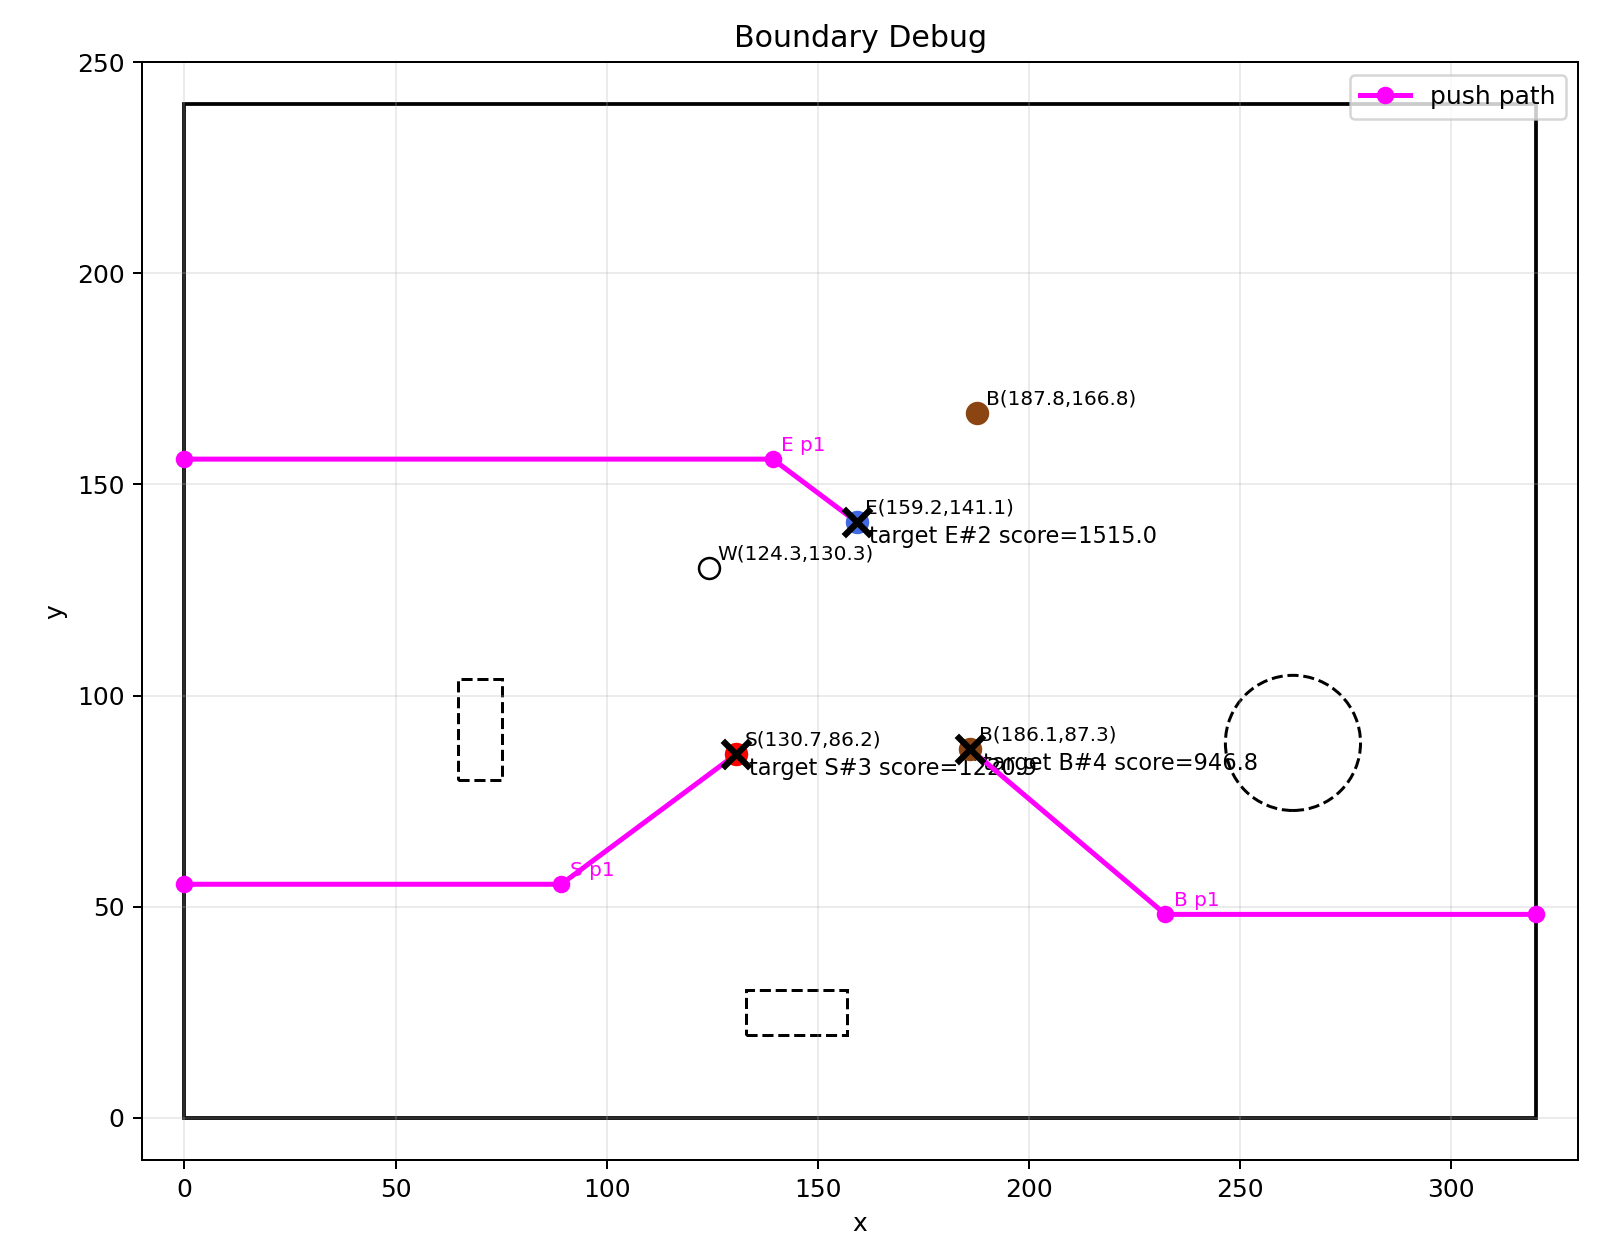
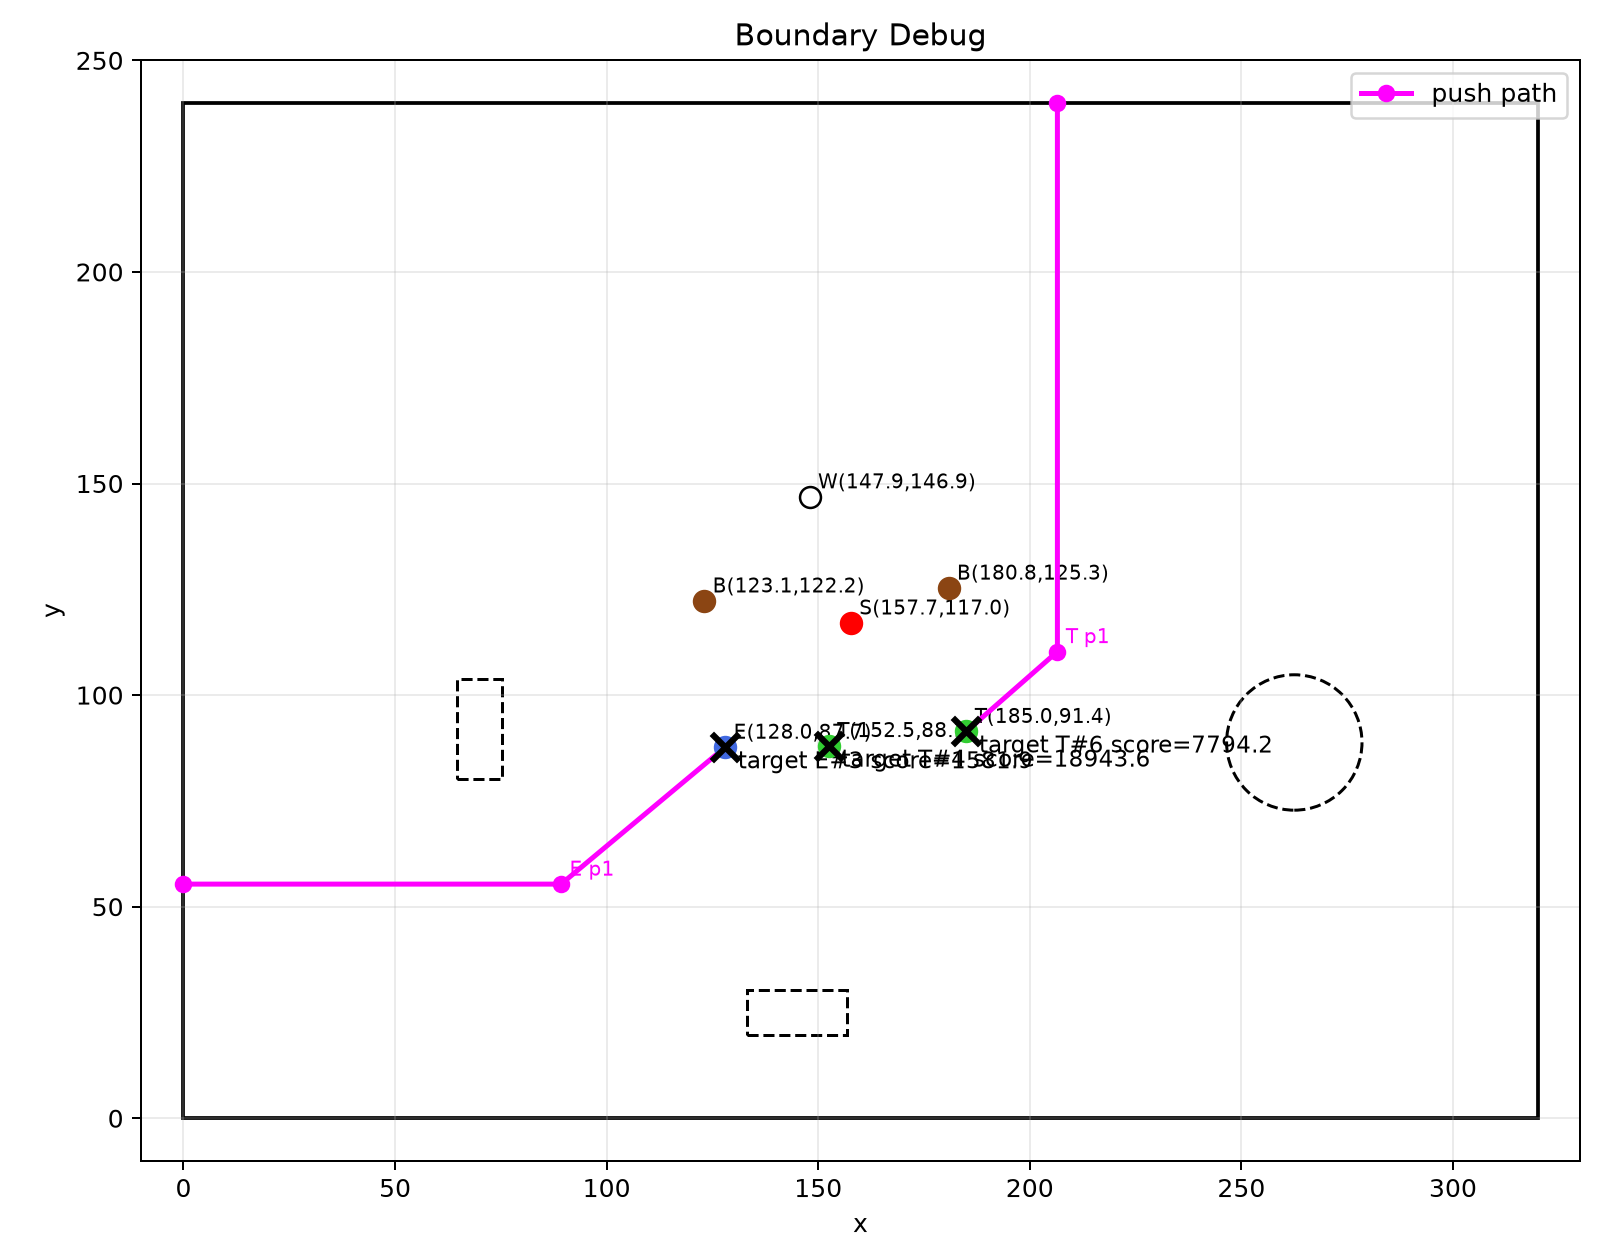
7/15 20/07
7/15 20/07

diff --git a/main_car/ant_task.py b/main_car/ant_task.py
@@ -83,8 +83,8 @@ class TaskController:
         self.fixed_scan_point = [[[self.my_car.x_current,self.my_car.y_current],0],
                                  [[145,self.data.fixed_point[1][1]-5],0],
                                  [[190,self.data.fixed_point[1][1]-5],0],
-                                 [[175,self.data.fixed_point[3][1]+5],180],
-                                 [[130,self.data.fixed_point[3][1]+5],180]]
+                                 [[175,self.data.fixed_point[2][1]+5],180],
+                                 [[130,self.data.fixed_point[2][1]+5],180]]
         gc.collect()  # 进行垃圾回收，确保有足够内存用于状态机操作
         
     # 不同模式下的执行函数
@@ -289,10 +289,10 @@ class TaskController:
                 if self.object_plan.judge_object_character(self.now_objects,self.last_side):
                     target = self.object_plan.plan_target
                     self.if_end_first_scan = True
-                    # self.uart_debug.write(f"{self.now_objects}\n")
-                    # self.uart_debug.write(f"target{self.object_plan.target_objects}\n")
-                    # self.uart_debug.write(f"path{self.object_plan.path}\n")
-                    # self.uart_debug.write(f"score{self.object_plan.target_score}\n")
+                    self.my_uart.write(f"{self.now_objects}\n")
+                    self.my_uart.write(f"target{self.object_plan.target_objects}\n")
+                    self.my_uart.write(f"path{self.object_plan.path}\n")
+                    self.my_uart.write(f"score{self.object_plan.target_score}\n")
                     if not target:
                         #self.my_uart.write("False\n")
                         self.exit()
@@ -362,17 +362,20 @@ class TaskController:
             self.exit()  # 退出当前状态，进入扫描状�?
             
     # 处理物体信息（将像素坐标转换为世界坐标）
-    def handle_object_info(self, ob_info):
+    def handle_object_info(self, ob_info,angle):
         """将单帧物体列表的像素坐标转换为世界坐标，返回新列表"""
         real_ob_info = []
         for ob in ob_info[1]:
             sp, x, y  = ob
-            if x<10 or y<10 or x>150 or y >110:
+            if x<10 or y<10 or x>145 or y >105:
                 continue
             kind = chr(sp)
             # 更新当前物体种类，便于选择物体高度
             self.my_vision.current_servo_object = kind  
-            real_point = self.my_vision.predict_point(x, y)
+            if angle == 180:limit_y = 50
+            else:limit_y = 75
+            real_point = self.my_vision.predict_point(x, y,limit_y = limit_y)
+            if not real_point: continue
             if not self.my_vision.if_in_rect(real_point[0],real_point[1]):continue
             real_ob_info.append((kind,real_point[0], real_point[1]))
         self.my_vision.current_servo_object = ''  # 重置当前物体种类
@@ -385,11 +388,8 @@ class TaskController:
             for idx, (old_kind, old_x, old_y) in enumerate(merged):
                 if old_kind != kind:
                     continue
-                # Farther detections have larger coordinate error, so relax the
-                # merge threshold linearly from 30 cm to 110 cm ahead/behind.
-                object_dist = max(abs(y - self.my_car.y_current),
-                                  abs(old_y - self.my_car.y_current))
-                if object_dist <= 30.0:
+                object_dist = max(abs(y - self.my_car.y_current),abs(old_y - self.my_car.y_current))
+                if object_dist <= 30.0 or self.if_model_detect:
                     threshold = threshold_near
                 elif object_dist >= 110.0:
                     threshold = threshold_far
@@ -462,16 +462,16 @@ class TaskController:
                 ob_info.append(world_2[i])  
         return ob_info
     def first_scan(self):
-        def analyse_package(num):
+        def analyse_package(num,angle):
             global counter
             object_package=self.my_art_protocol.detect_objects_on_the_court()#[物体种类(ord),x,y]
             if object_package:
                 counter +=1
                 self.scan_empty_counter=0
-                new_world = self.handle_object_info(object_package)
+                new_world = self.handle_object_info(object_package,angle)
+                self.my_uart.write(f"{counter}{new_world}\n")
                 if self.now_objects: self.now_objects = self.integrate_object_info(self.now_objects,new_world)#将新帧与上一帧融合
                 else: self.now_objects = new_world
-                #self.my_uart.write(f"{self.now_objects}\n")
                 self.my_vision.analysed_objects = self.now_objects
             else:
                 self.scan_empty_counter+=1
@@ -508,10 +508,9 @@ class TaskController:
                         if self.if_model_detect:
                             self.my_order_manager.trans_to_mode_detect()
                     self.scan_waiting_count +=1
-                else:analyse_package(num)
+                else:analyse_package(num,self.planned_scan_path[self.detected_num][1])
         if self.detected_num == self.use_scan_point:
             self.now_objects = self.merge_nearby_same_kind(self.now_objects)
-            '''
             if len(self.now_objects) != self.data.total_objects_num:
                 self.my_uart.write(f"{self.now_objects}\n")
                 self.my_uart.write(f"target{self.object_plan.target_objects}\n")
@@ -519,7 +518,6 @@ class TaskController:
                 self.my_uart.write(f"score{self.object_plan.target_score}\n")
                 self.exit()
                 return
-            '''
             self.if_end_first_scan = True
         else:scan_point(1)
     def handle_scan(self):

diff --git a/slave_car/ant_task.py b/slave_car/ant_task.py
@@ -300,16 +300,19 @@ class TaskController:
             retreat_threhold = 10
             self.retreat_message = [self.my_car.x_current, self.my_car.y_current]
             if current_object == 'T':
+                self.my_vision.car_position = 'U'
                 if self.my_car.now_yaw<0:
                     self.retreat_message=[self.my_car.x_current+retreat_threhold, self.my_car.y_current]
                 else:
                     self.retreat_message=[self.my_car.x_current-retreat_threhold, self.my_car.y_current]
             elif current_object in ['S', 'E']:
+                self.my_vision.car_position = 'L'
                 if self.my_car.now_yaw<-PI/2:
                     self.retreat_message=[self.my_car.x_current, self.my_car.y_current+retreat_threhold]
                 else:
                     self.retreat_message=[self.my_car.x_current, self.my_car.y_current-retreat_threhold]
             elif current_object in ['B', 'W']:
+                self.my_vision.car_position = 'R'
                 if self.my_car.now_yaw<PI/2:
                     self.retreat_message=[self.my_car.x_current, self.my_car.y_current-retreat_threhold]
                 else:

diff --git a/main_car/ant_move.py b/main_car/ant_move.py
@@ -346,7 +346,8 @@ class MoveControl:
             self.send_point=[plan_path[1][0]-self.my_car.x_current,plan_path[1][1]-self.my_car.y_current]
             dx1,dy1=abs(plan_path[1][0]-self.my_car.x_current),abs(plan_path[1][1]-self.my_car.y_current)
             dx2,dy2=abs(plan_path[1][0]-plan_path[2][0]),abs(plan_path[1][1]-plan_path[2][1])
-            p1=[plan_path[1][0]+dy1/(dy1+dy2)*self.push_postion[0]now_clamp,plan_path[1][1]+dx1/(dx1+dx2)*self.push_postion[1]*now_clamp]
+            p1=[plan_path[1][0]+dy1/(dy1+dy2)*self.push_postion[0]*now_clamp,
+                plan_path[1][1]+dx1/(dx1+dx2)*self.push_postion[1]*now_clamp]
             p2=[plan_path[2][0]+self.push_postion[0]*now_clamp*twist_clamp_factor,plan_path[2][1]+self.push_postion[1]*now_clamp*twist_clamp_factor]
             self.my_plan.fitting_path_ = [plan_path[0],p1,p2]
             self.plan_path = plan_path[1:]

diff --git a/main_car/ant_vision.py b/main_car/ant_vision.py
@@ -277,9 +277,11 @@ class VisionManager:
         # 返回真实的物理坐标
         return X_raw * K, Y_raw * K
         # 推测目标点位并进行视觉伺服控制
-    def predict_point(self, x, y):
+    def predict_point(self, x, y,limit_y = None):
         car_radius = 10.0
         raw_x, raw_y = self.pixel_to_real_world_scan(x, y)
+        if limit_y:
+            if raw_y>limit_y: return []
         raw_y += car_radius
         relative_angle = -math.atan2(-raw_x, raw_y)
         actual_angle = self.my_car.now_yaw + relative_angle
